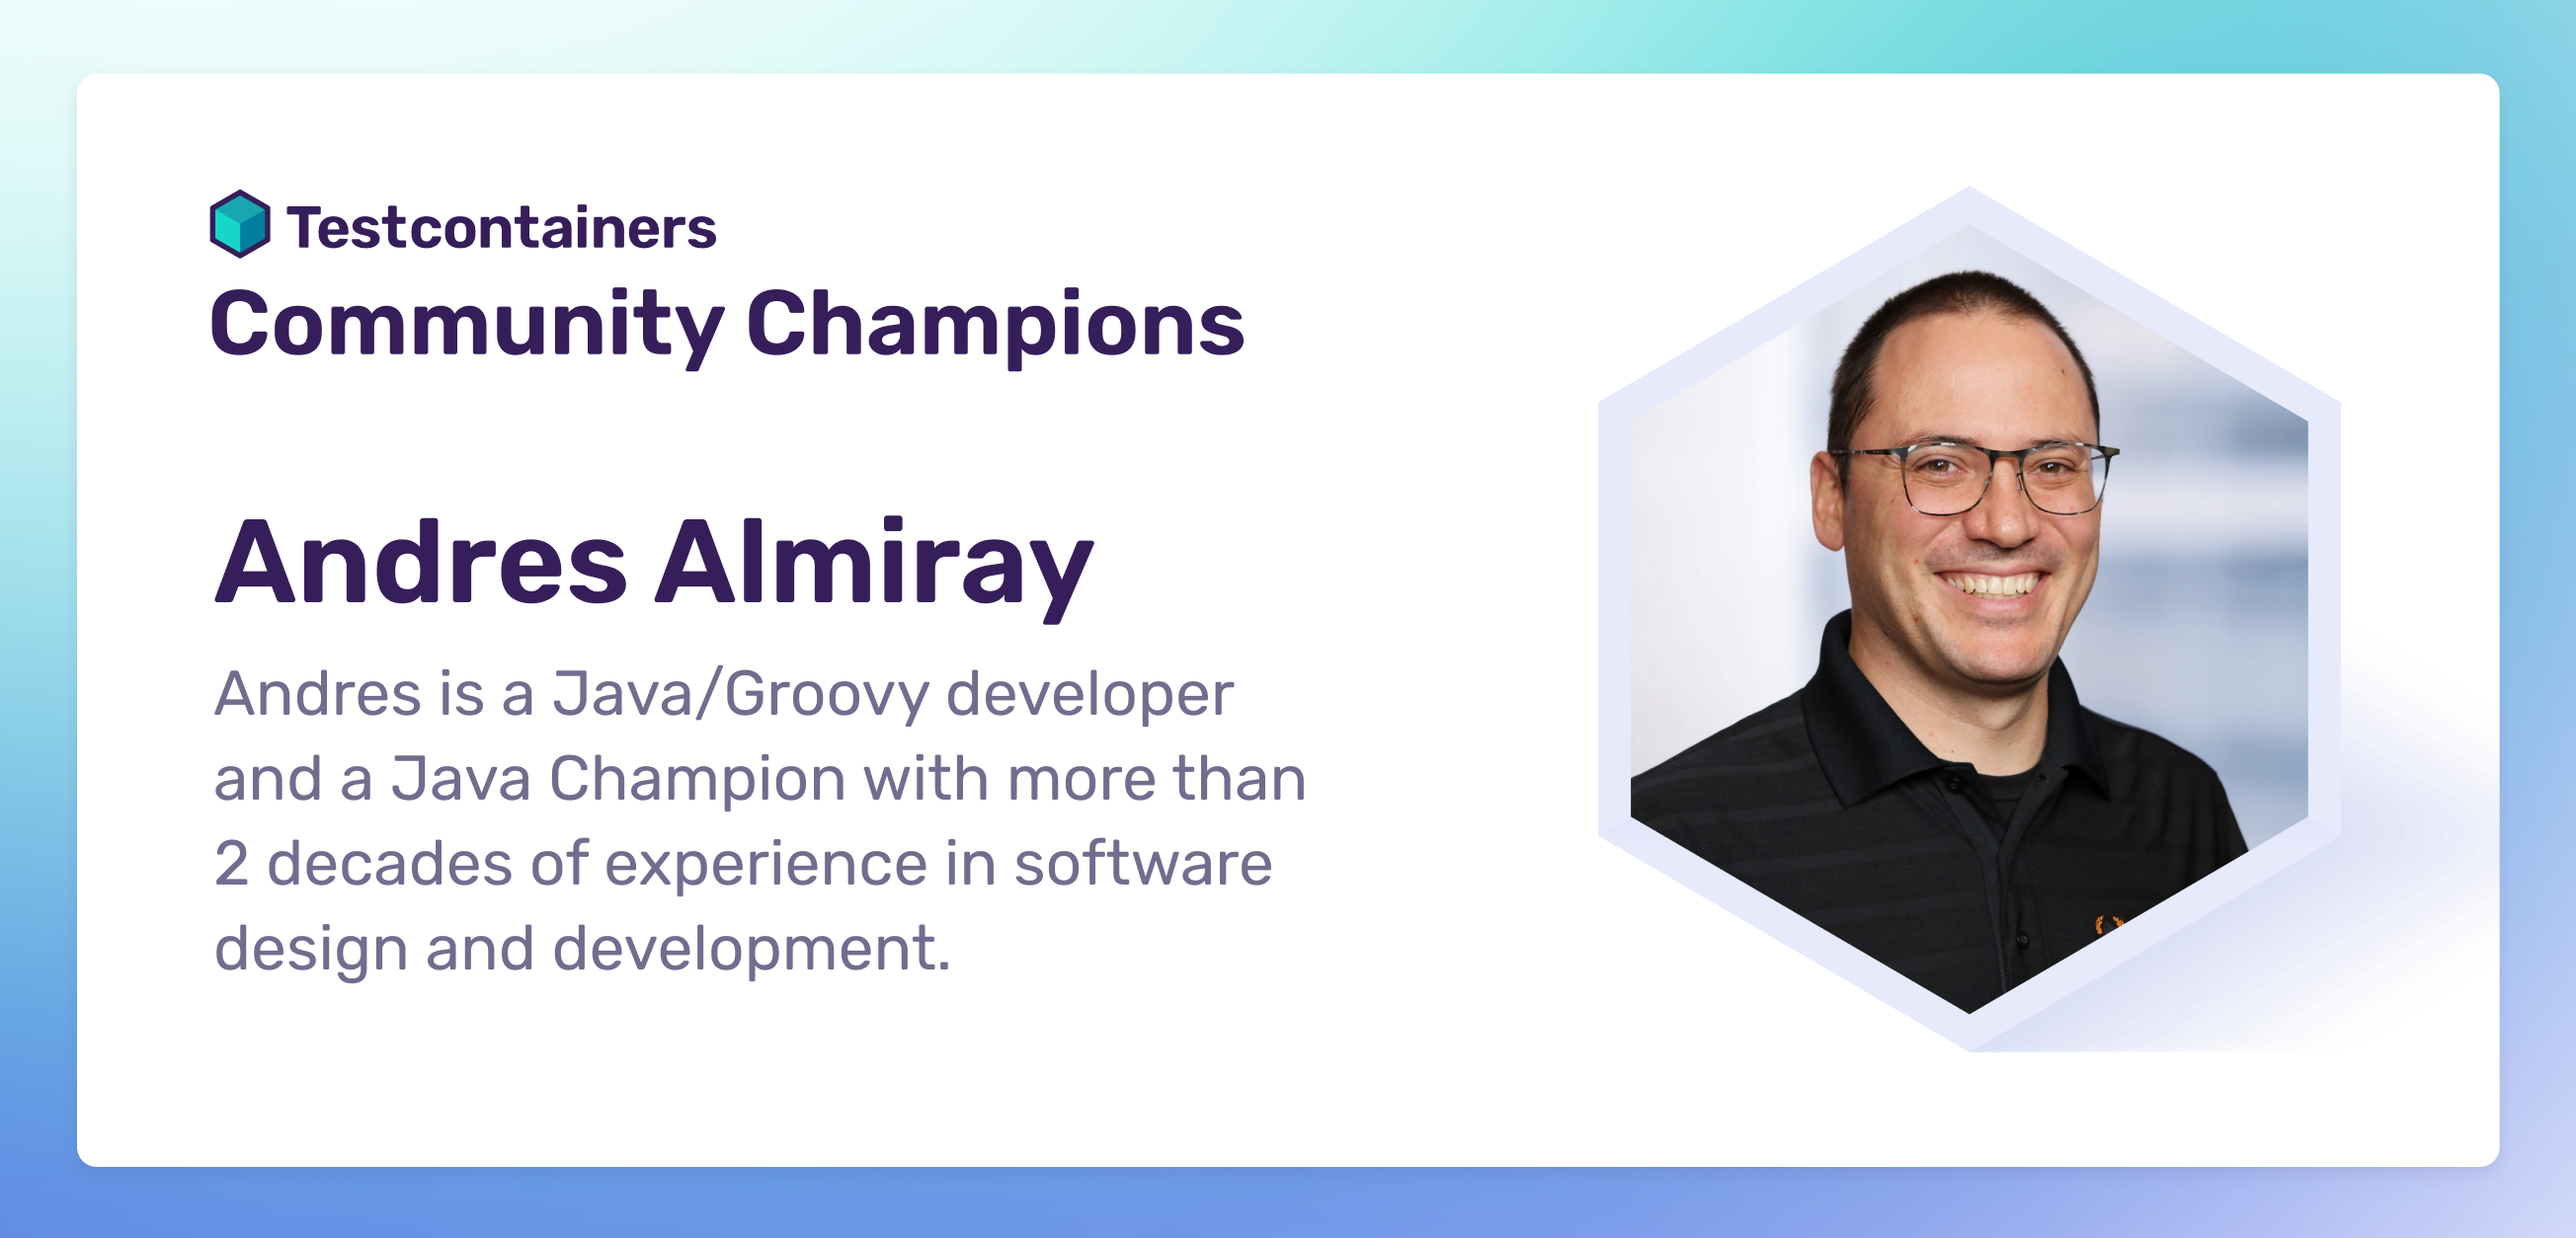
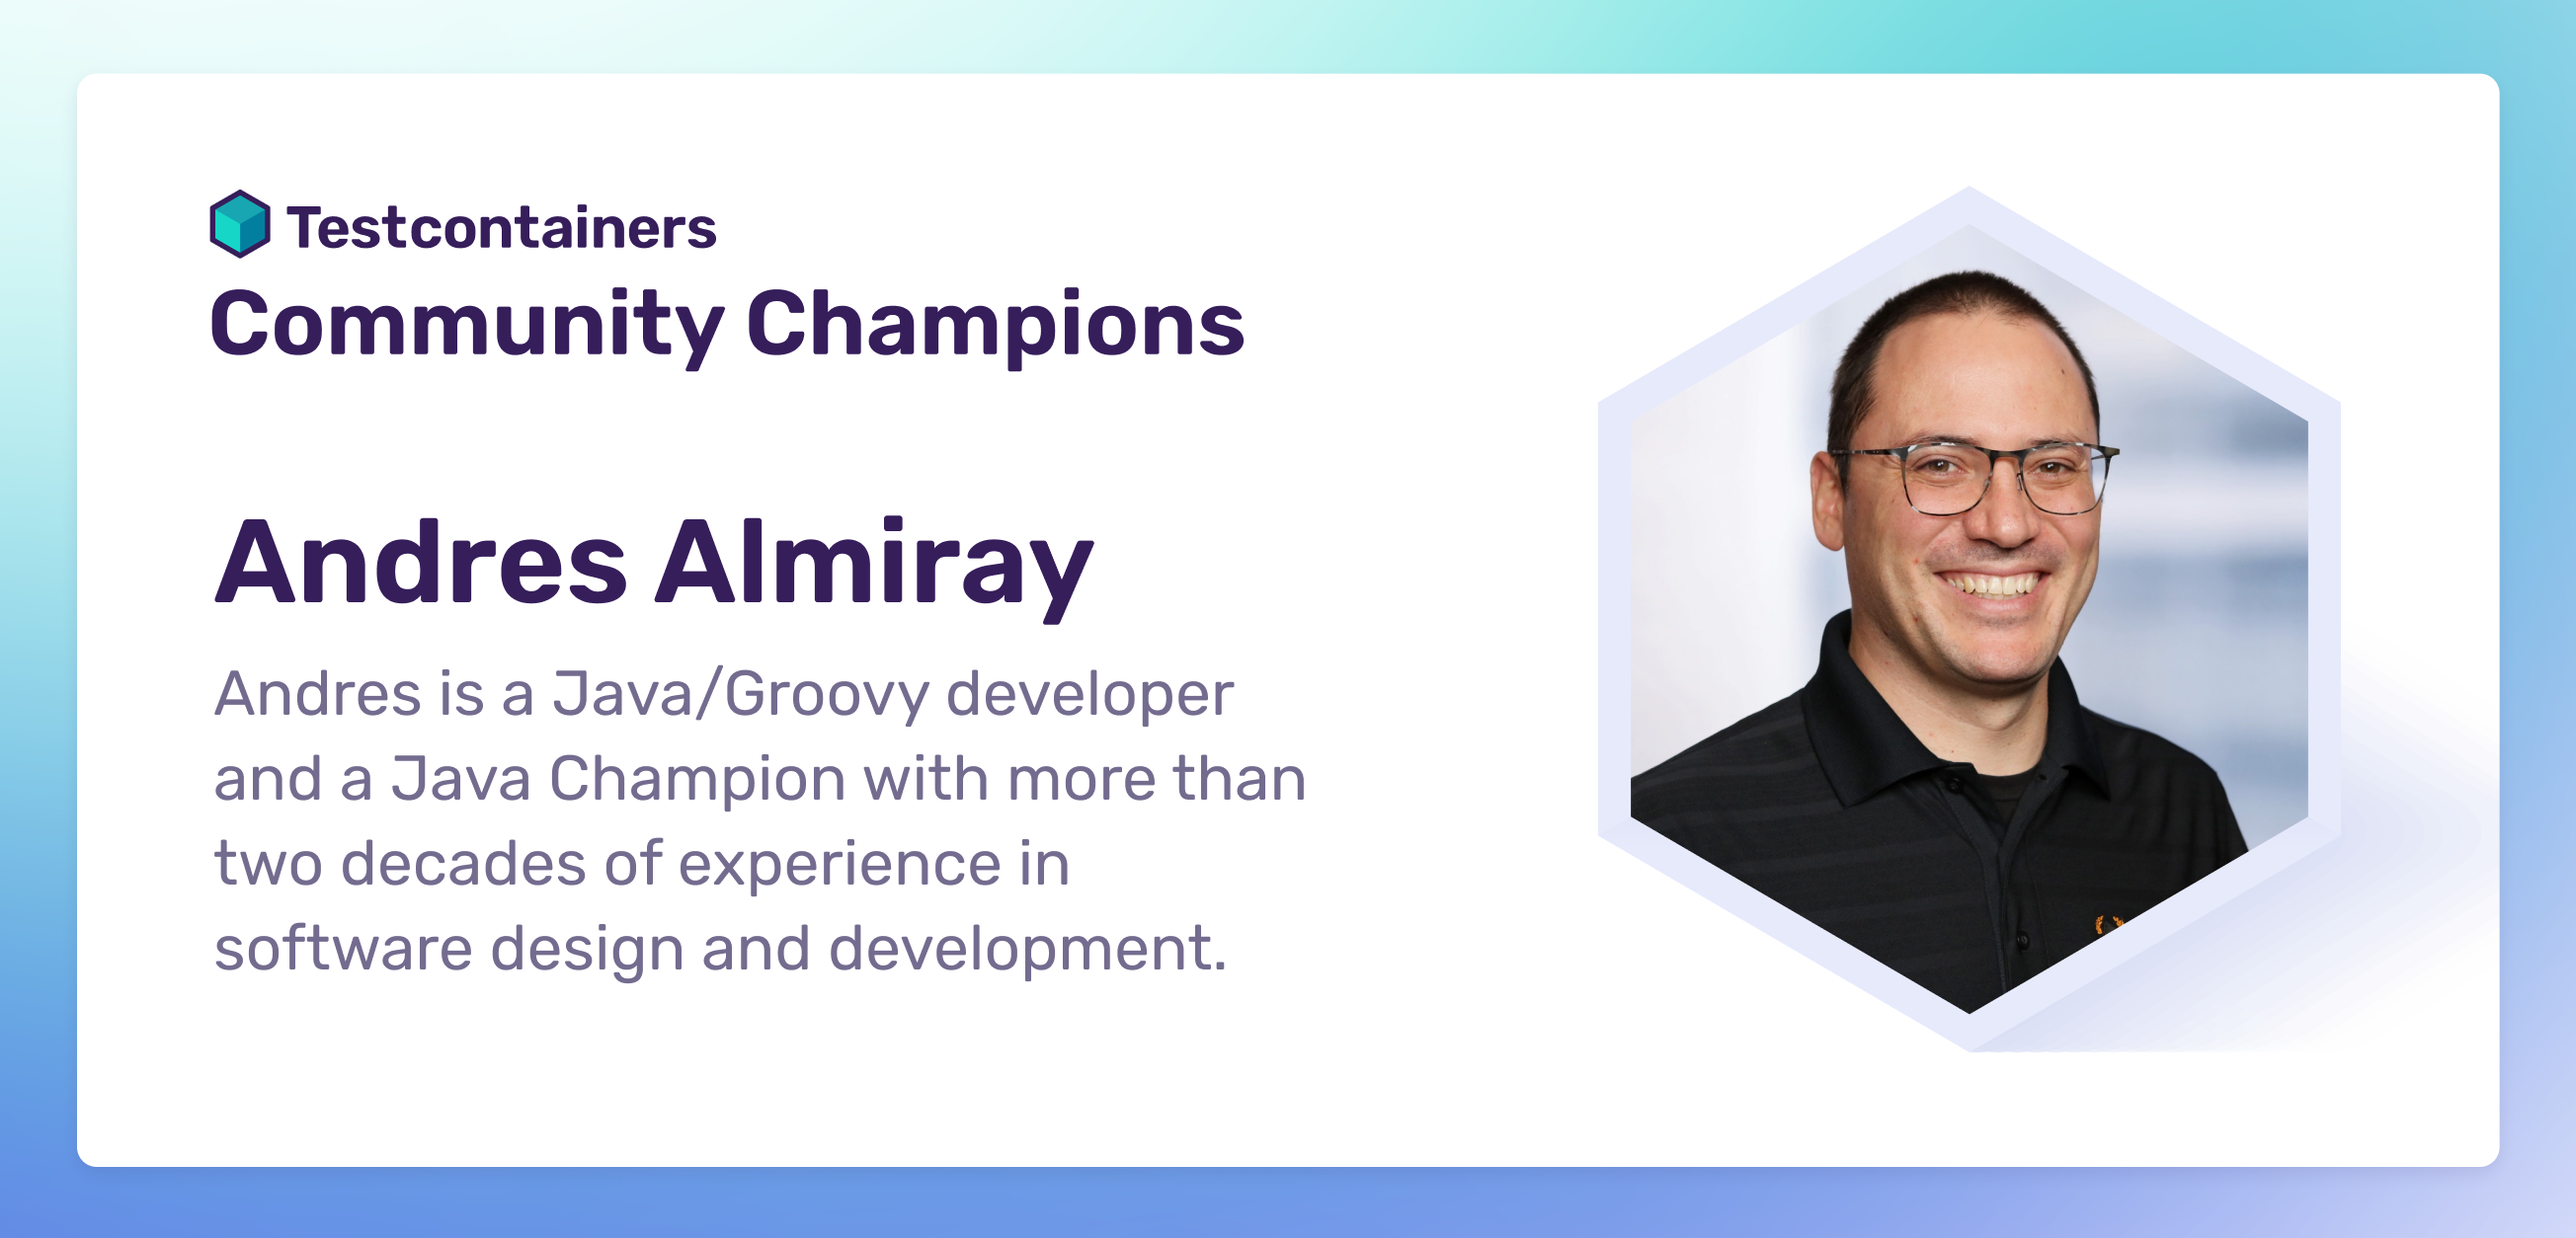
Update champion Andres Almiray content (#221)
* Update content

* Update share image

Changed region(s): [[0.0932, 0.7464, 0.4659, 0.8086], [0.0621, 0.6842, 0.4969, 0.7153]]

diff --git a/content/community-champions/andres-almiray.md b/content/community-champions/andres-almiray.md
@@ -25,13 +25,13 @@ socialLinks:
 
 ## Bio
 
-Andres is a Java/Groovy developer and a Java Champion with more than 2 decades of experience in software design and development. He has been involved in web and desktop application development since the early days of Java. Andres is a true believer in open source and has participated on popular projects like Groovy, Griffon, and DbUnit, as well as starting his own projects. Founding member of the Griffon framework and Hackergarten community event. Author of JReleaser.
+Andres is a Java/Groovy developer and a Java Champion with more than two decades of experience in software design and development. He has been involved in web and desktop application development since the early days of Java. Andres is a true believer in open source and has participated on popular projects like Groovy, Griffon, and DbUnit, as well as starting his own projects. Founding member of the Griffon framework and Hackergarten community event. Author of JReleaser.
 
 ## Q&A
 
 ### What were your first experiences with Testcontainers?
 
-Ixchel Ruiz and Kevin Witteck showed me Testcontainers years ago at Gr8Conf. They convinced me that TC was the way to go to have better results for integration and functional tests.
+Ixchel Ruiz and Kevin Wittek showed me Testcontainers years ago at Gr8Conf. They convinced me that Testcontainers was the way to go to have better results for integration and functional tests.
 
 ### What’s your favourite Testcontainers module?
 
